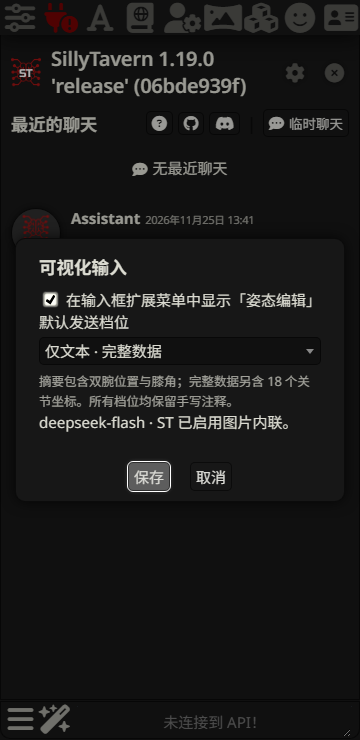
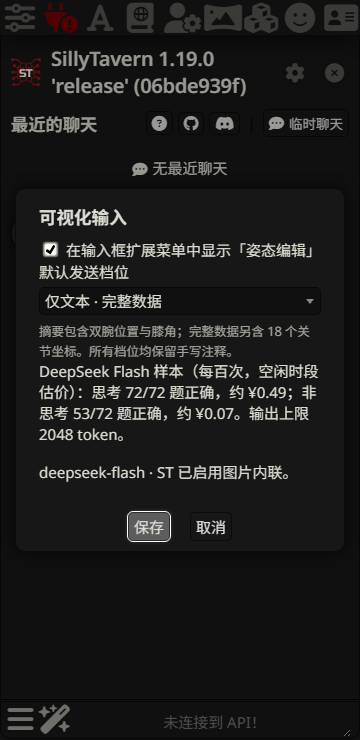
Show measured DeepSeek cost and accuracy for pose attachment modes

Changed region(s): [[0.0611, 0.2797, 0.8861, 0.7459], [0.55, 0.6838, 0.6417, 0.7459]]

diff --git a/tools/visual-input.js b/tools/visual-input.js
@@ -112,13 +112,33 @@ function renderSettings(canvas, draft) {
     checkbox.onchange = () => { draft.showPoseEntry = checkbox.checked; };
     label.append(checkbox, '在输入框扩展菜单中显示「姿态编辑」');
     const mode = modeSelector('默认发送档位', draft);
-    mode.select.onchange = () => { draft.poseMode = mode.select.value; };
     const hint = document.createElement('small');
     hint.textContent = '摘要包含双腕位置与膝角；完整数据另含 18 个关节坐标。所有档位均保留手写注释。';
+    const estimate = document.createElement('p');
+    estimate.setAttribute('aria-live', 'polite');
+    // Snapshot of the paired benchmark in docs/pose-tiers.md, not a live quote.
+    const benchmark = {
+        summary: ['8/72', '0.79', '36/72', '0.03'],
+        text: ['72/72', '0.49', '53/72', '0.07'],
+        image: ['0/72', '0.88', '31/72', '0.06'],
+        mixed: ['10/72', '0.85', '44/72', '0.07'],
+        full: ['66/72', '0.57', '60/72', '0.10'],
+    };
+    function showEstimate() {
+        const [thinkingScore, thinkingCost, fastScore, fastCost] = benchmark[mode.select.value];
+        estimate.textContent = 'DeepSeek Flash 样本（每百次，空闲时段估价）：思考 '
+            + thinkingScore + ' 题正确，约 ¥' + thinkingCost + '；非思考 '
+            + fastScore + ' 题正确，约 ¥' + fastCost + '。输出上限 2048 token。';
+    }
+    mode.select.onchange = () => {
+        draft.poseMode = mode.select.value;
+        showEstimate();
+    };
+    showEstimate();
     const status = document.createElement('p');
     status.setAttribute('role', 'status');
     status.textContent = '正在检查当前连接的图片内联状态…';
-    canvas.append(label, mode.label, hint, status);
+    canvas.append(label, mode.label, hint, estimate, status);
     showInlineStatus(status);
 }
 

diff --git a/docs/pose-tiers.md b/docs/pose-tiers.md
@@ -1,0 +1,37 @@
+# 姿态发送档位的成本与准确率
+
+在「可视化输入 → 设置」中选择默认档位，或在姿态编辑器里为本条消息临时改选。五档共用同一组编辑点位，含图的三档共用同一张 800 × 880 PNG。混合档通过改变随图文本的内容来调节预算。文字始终在图片前面，输入框中的问题和手写注释均保留。仅图档有手写注释时会额外附上注释原文。[设置截图](screenshots/pose-settings.png)
+
+## 对照设计
+
+2026-11-25，通过 SillyTavern 自定义连接调用 deepseek-flash。复用先前的 12 个合成姿态，每档各测思考、非思考两种模式，共 120 个有响应的请求。每次只有一条用户消息，手写注释留空，温度为 0，输出上限为 2048 token，图片 detail 为 auto。发送档位只改变附件，用户在 ST 选择的模型和思考设置照常生效。[样例坐标及前四题标准答案](pose-deepseek.md)
+
+每例一次回答六题。前四题判断双腕高低、哪些腕高于同侧肩、哪些腕越过颈部中线、哪侧膝内角更小。后两题判断颈部在画面中心左侧、右侧或线上，以及哪侧踝到同侧膝的水平距离绝对值更大（允许相等）。新增两题用于检验摘要以外的细节；仅摘要无法唯一决定答案。各题独立计分，缺答、弃答均不得分，有解释的回答按最终六项结论计分。每种组合只测一遍。
+
+## 启用思考
+
+| 档位 | 腕部和膝角 /48 | 其他位置 /24 | 总正确率 | 截断请求 /12 | 次均输入 / 输出 token | 百次费用估算（元） |
+| --- | ---: | ---: | ---: | ---: | ---: | ---: |
+| 仅文本 · 几何摘要 | 8 | 0 | 8/72（11.1%） | 10 | 259 / 1914 | 0.7915 |
+| 仅文本 · 完整数据 | 48 | 24 | 72/72（100%） | 0 | 665 / 1167 | 0.4948 |
+| 仅图片 | 0 | 0 | 0/72（0%） | 12 | 621 / 2048 | 0.8782 |
+| 图文 · 图片与几何摘要 | 8 | 2 | 10/72（13.9%） | 10 | 702 / 2024 | 0.8527 |
+| 图文 · 图片与完整数据 | 44 | 22 | 66/72（91.7%） | 1 | 1108 / 1308 | 0.5713 |
+
+达到上限的请求均没有最终答案。完整文本比仅图输入多 44 token，却平均少用 881 个输出 token，最终成本更低。完整图文成功作答的 11 个姿态均为六题全对。
+
+## 关闭思考
+
+| 档位 | 腕部和膝角 /48 | 其他位置 /24 | 总正确率 | 截断请求 /12 | 次均输入 / 输出 token | 百次费用估算（元） |
+| --- | ---: | ---: | ---: | ---: | ---: | ---: |
+| 仅文本 · 几何摘要 | 32 | 4 | 36/72（50.0%） | 0 | 233 / 9 | 0.0269 |
+| 仅文本 · 完整数据 | 35 | 18 | 53/72（73.6%） | 0 | 639 / 9 | 0.0673 |
+| 仅图片 | 19 | 12 | 31/72（43.1%） | 0 | 595 / 8 | 0.0628 |
+| 图文 · 图片与几何摘要 | 34 | 10 | 44/72（61.1%） | 0 | 676 / 33 | 0.0747 |
+| 图文 · 图片与完整数据 | 43 | 17 | 60/72（83.3%） | 0 | 1082 / 11 | 0.0957 |
+
+## 成本口径
+
+用每个成功返回请求的 usage 汇总缓存命中、未命中的输入 token 和全部输出 token（含推理），折算成同样请求重复 100 次的价格。上表按 DeepSeek Flash 官方人民币空闲时段单价估算，每百万 token 分别为 0.02、1、4 元。同一用量按高峰价计算为表中金额的两倍。网络失败后补齐的请求以有 usage 的响应计入；结果为估算，未核销账单。真实聊天的历史长度、缓存命中、输出长度及供应商计费都会改变成本。[DeepSeek 官方价格](https://api-docs.deepseek.com/zh-cn/quick_start/pricing/)
+
+本批样本适合比较精确的二维几何问答。完整坐标能推导后两题，摘要里的腕部和膝角也直接有助于前四题。结果不能用于估计开放式动作描写、多人遮挡或其他模型的正确率。

diff --git a/README.md b/README.md
@@ -33,7 +33,7 @@ Windows 创建符号链接需要启用开发者模式或使用有相应权限的
 
 开启「可视化输入」后，从输入框的扩展菜单选择「姿态编辑」。在工具设置中可以单独隐藏这个入口。画布显示正面人物，橙色代表人物自身右侧，青色代表左侧。可拖动关节，也可通过下拉框选择关节后轻点目标位置。画布获得焦点时支持方向键微调，每次移动均可撤销。
 
-填写可选注释后点「附加到消息」，工具会把骨架 PNG 与同名 TXT 加入待发送附件。TXT 以 JSON 记录 18 个具名关键点、图像坐标系、左右图例和注释，并给出双腕相对高度、越过颈部中线的有符号距离和二维膝角。「附加姿态数据文本」默认开启。关闭后只附 PNG，若填写了注释则另附仅含注释原文的 TXT。设置旁显示当前 ST 连接的图片内联状态。可继续编辑消息并按平常方式发送。取消、切换聊天或关闭工具会丢弃当前编辑。[姿态附件渲染调研](docs/pose-rendering.md) · [DeepSeek 对照测试与消息结构](docs/pose-deepseek.md)
+工具设置中的「默认发送档位」控制附件组合；编辑器也可单独改选「本次发送档位」。几何摘要记录双腕相对位置和膝角；完整数据另含全部 18 个关节的像素坐标、视图和图例。可以只附其中一种文本、只附骨架图，或把骨架图与任一种文本一起发送。所有档位都保留手写注释，仅图档有注释时另附注释原文。原先关闭姿态数据文本的配置沿用仅图片，其余默认完整图文。设置旁显示当前 ST 连接的图片内联状态。点击「附加到消息」后仍可继续编辑草稿。[档位成本与准确率](docs/pose-tiers.md) · [姿态附件渲染调研](docs/pose-rendering.md) · [DeepSeek 对照测试与消息结构](docs/pose-deepseek.md)
 
 ## 附加聊天记录
 
